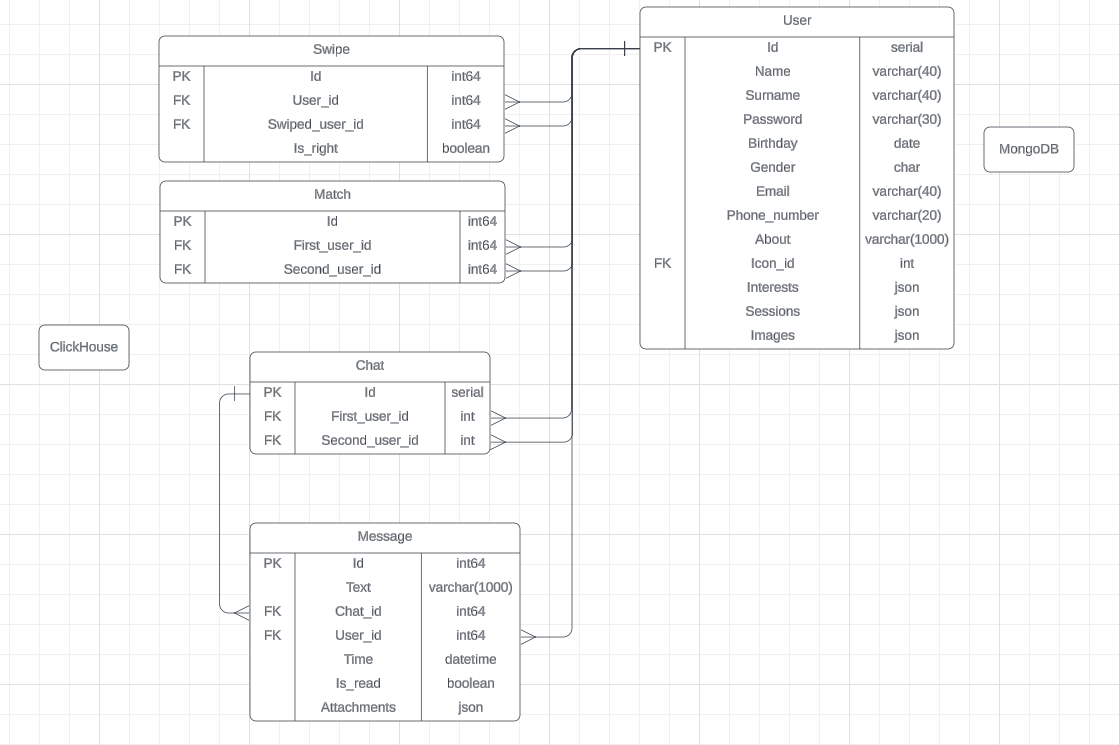
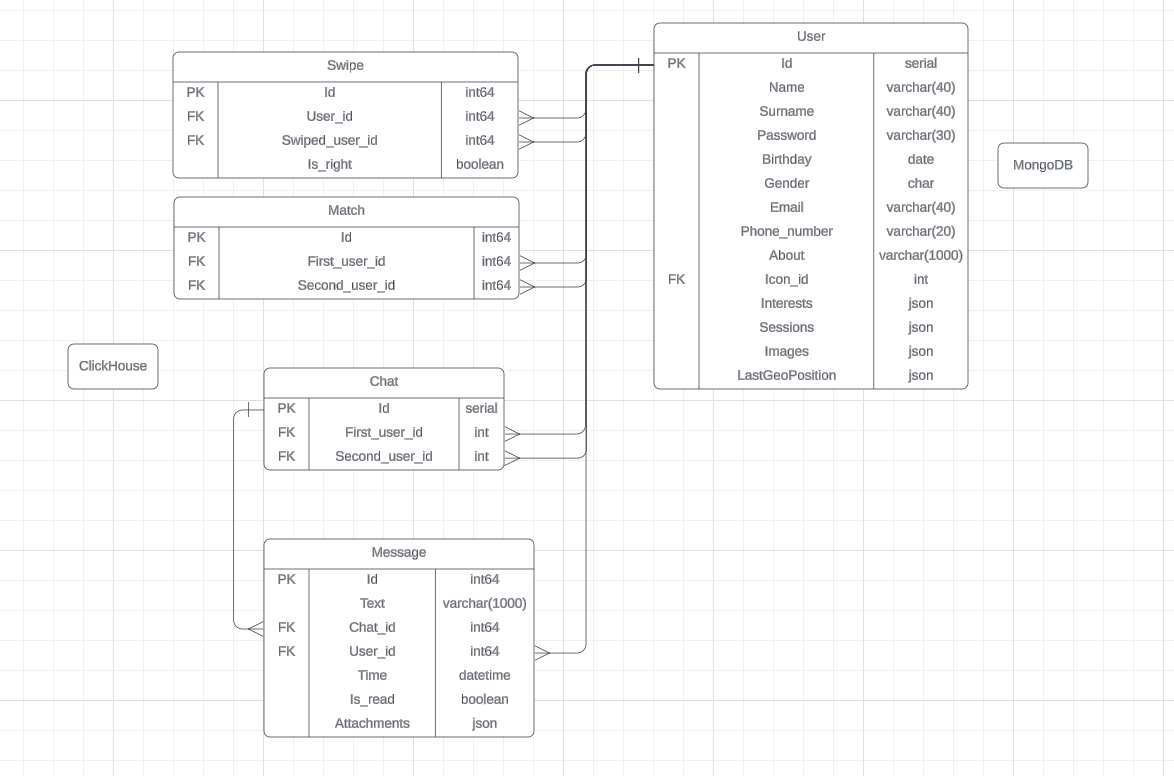
Algorithms added

diff --git a/README.md b/README.md
@@ -239,23 +239,24 @@
 
 **User**
 
-| Поле              | Тип          | Размер, байт | Средний размер, байт |
-| ----------------- | ------------ | :----------: | :------------------: |
-| Id                | int64        |      8       |          8           |
-| Name              | varchar(40)  |      40      |          10          |
-| Surname           | varchar(40)  |      40      |          10          |
-| Password          | varchar(30)  |      30      |          15          |
-| Birthday          | date         |      3       |          3           |
-| Gender            | char         |      1       |          1           |
-| Email             | varchar(254) |      254     |          254         |
-| Phone_number      | varchar(15)  |      15      |          15          | 
-| About             | varchar(1000)|      1000    |          100         |
-| Icon_id           | int64        |      8       |          8           |
-| **Сумма**         | -            |   **1399**   |         **424**      |
+| Поле              | Тип              | Размер, байт | Средний размер, байт |
+| ----------------- | -----------------| :----------: | :------------------: |
+| Id                | int64            |      8       |          8           |
+| Name              | varchar(40)      |      40      |          10          |
+| Surname           | varchar(40)      |      40      |          10          |
+| Password          | varchar(30)      |      30      |          15          |
+| Birthday          | date             |      3       |          3           |
+| Gender            | char             |      1       |          1           |
+| Email             | varchar(254)     |      254     |          254         |
+| Phone_number      | varchar(15)      |      15      |          15          | 
+| About             | varchar(1000)    |      1000    |          100         |
+| Icon_id           | int64            |      8       |          8           |
+| LastGeoPosition   | numeric(8,5) * 2 |      44      |          44          |
+| **Сумма**         | -                |   **1443**   |         **468**      |
 
-Размер одной записи - около 424 байт.
+Размер одной записи - около 468 байт.
 
-При размере аудитории в 75 млн пользователей получим общий объём таблицы: 29.6 Гб
+При размере аудитории в 75 млн пользователей получим общий объём таблицы: 32.6 Гб
 
 **Session**
 
@@ -392,7 +393,7 @@
 
 | Таблица             | Размер одной строки | Кол-во строк | Общий размер | Нагрузка на чтение(RPS) | Нагрузка на запись(RPS) |
 | ------------------- | ------------------- | ------------ | ------------ | ------------------ | ------------------ |
-| User                | 192 Байта           | 75 млн       | 13.4 Гб      | 39618              | 0.66               |
+| User                | 468 Байт            | 75 млн       | 32.6 Гб      | 39618              | 0.66               |
 | Session             | 58 Байт             | 42 млн       | 2.3 Гб       | 82180              | 486.11             |
 | Interest            | 48 Байт             | 11           | 528 байт     | 39618              | 0                  |
 | User_interest       | 24 Байта            | 300 млн      | 286 Мб       | 39618              | 0.66               |
@@ -400,7 +401,7 @@
 | Swipe               | 25 Байт             | 288 млрд     | 3.3 Тб       | 2674               | 36944              |
 | Match               | 24 Байта            | 9 млрд       | 100 Гб       | 2674               | 2674               |
 | Chat                | 24 Байта            | 9 млрд       | 201 Гб       | 3888               | 2674               |
-| Message             | 83 Байта            | 180 млрд.    | 13 Тб        | 3888               | 24062              |
+| Message             | 83 Байта            | 180 млрд     | 13 Тб        | 3888               | 24062              |
 | Attachment          | 2084 Байт           | 105 млн      | 200 Гб       | 3888               | 274                |
 
 ## 6. Физическая схема БД<a name="6"></a>
@@ -435,7 +436,12 @@
 
 ## 7. Алгоритмы<a name="7"></a>
 
-Самым сложным алгоритмом в MVP Tinder является локальная система рекомендаций, которая основана на динамическом определении геопозиции пользователей и подбору возможных пар с похожей геопозицией. Геопозиция пользователя в течении короткого времени хранится в бд. Для таких целей подойдет Cassandra, так как она имеет встроенные пространственные индексы и может быстро возвращать результаты с ближайшими пользователями, а надежностью хранения данных можно пренебречь.
+Глобальная балансировка нагрузки осуществляется следующим образом: определение региона пользователя происходит через Geo-based DNS, а внутри региона выбор оптимального дата-центра происходит с помощью BGP Anycast. Это позволяет маршрутизировать трафик пользователей к ближайшим и наименее загруженным серверам, обеспечивая высокую доступность и производительность платформы.
+На уровне локальной балансировки нагрузки, nginx выступает в качестве распределителя трафика, перенаправляя запросы пользователей на группу application-серверов по алгоритму round-robin.
+При регистрации новых пользователей вся информация о них записывается в базу данных MongoDB, обеспечивая надежное хранение и быстрый доступ к профильным данным.
+Для эффективной загрузки ленты новостей, алгоритм подбирает пользователей батчами по 50 человек, учитывая их приближенную геопозицию и пол. Геопозиция каждого пользователя хранится только в обобщенном виде и удаляется при длительном отсутствии активности, поддерживая актуальность данных. Таким образом, свайпы будут происходить среди пользователей с похожим местоположением. Кроме того, в ленту добавляются люди, которым текущий пользователь уже понравился (свайпнул вправо).
+В случае взаимной симпатии (совпадения свайпов) оба пользователя получают уведомление и они могут начать чат. Сообщения чатов сохраняются с использованием партиционирования по Chat_id и Time, что позволяет эффективно хранить данные в батчах, группируя сообщения по соответствующим чатам.
+Для буферизации данных сообщений чатов перед их сохранением в базу данных используется Kafka, обеспечивающая надежную очередь сообщений и высокую пропускную способность.
 
 ## 8. Технологии<a name="8"></a>
 
